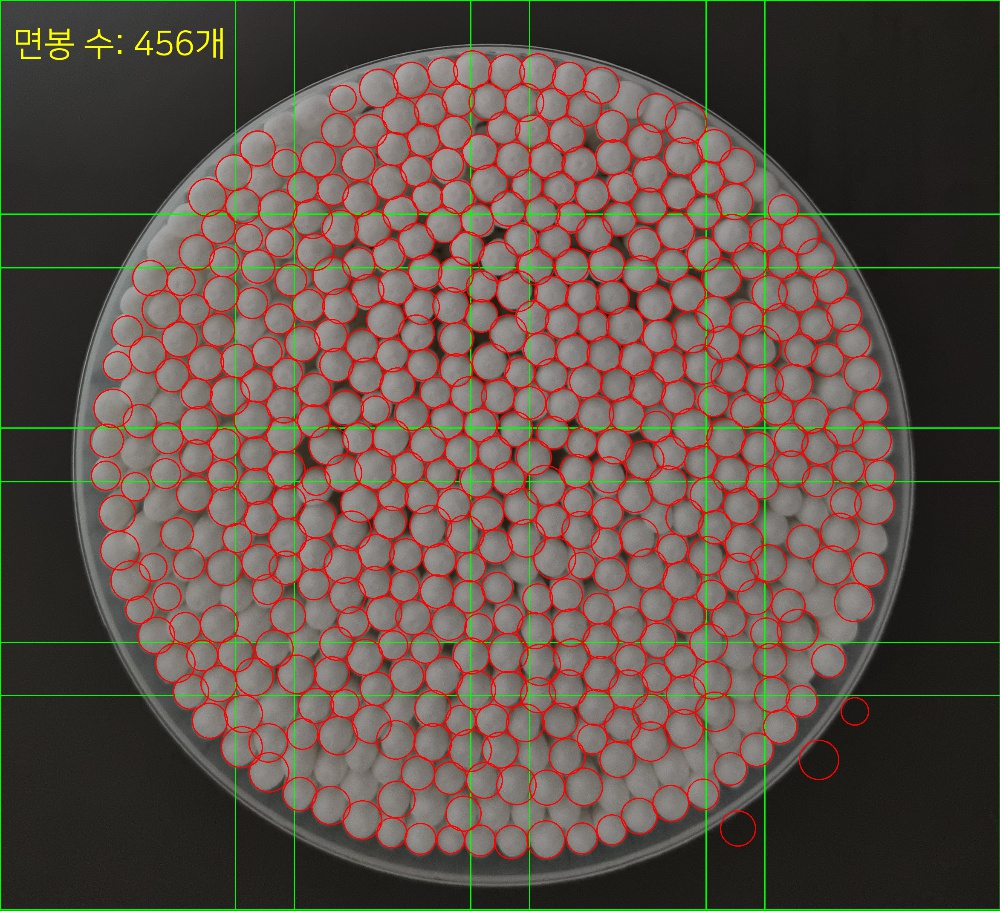
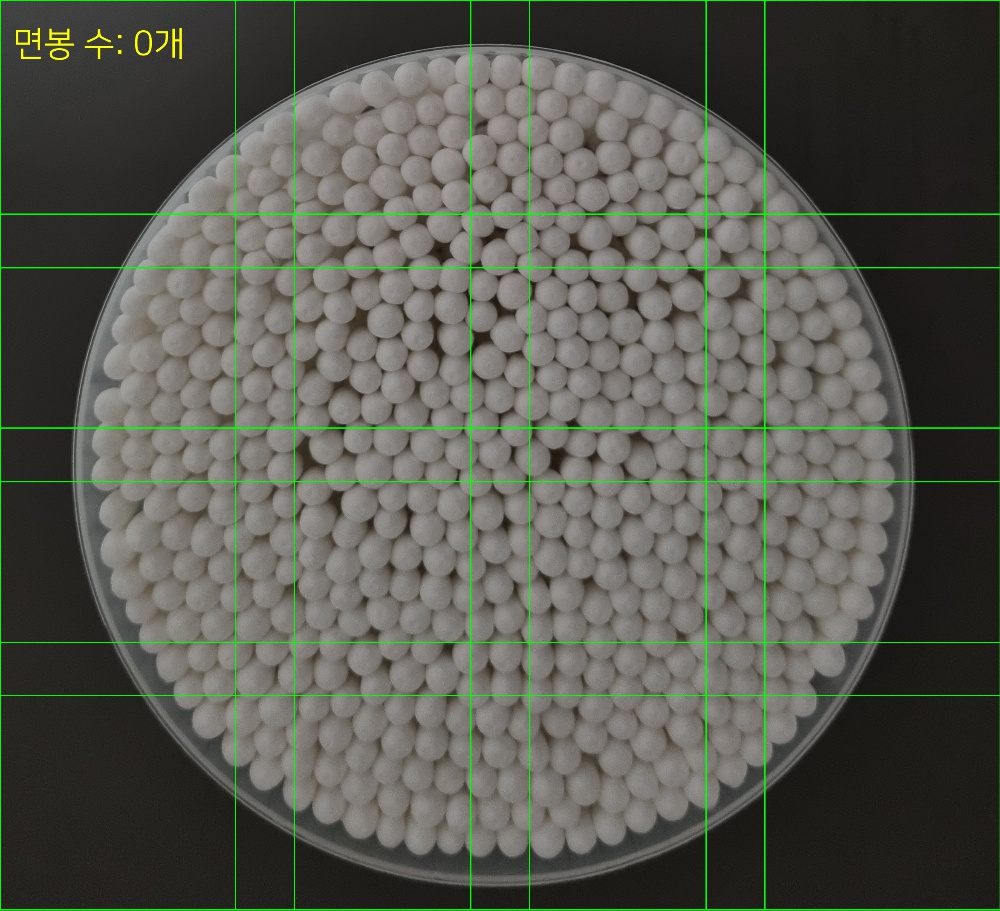
수정

Changed region(s): [[0.093, 0.0615, 0.899, 0.9528], [0.124, 0.0307, 0.248, 0.0615], [0.837, 0.7684, 0.868, 0.7991]]

diff --git a/팀플/ASC_1015.py b/팀플/ASC_1015.py
@@ -13,7 +13,7 @@ def load_image(image_path):
 def detect_largest_circle(image, min_radius=800, max_radius=1050):
     gray_image = cv2.cvtColor(image, cv2.COLOR_BGR2GRAY)
     blurred_image = cv2.GaussianBlur(gray_image, (5, 5), 0)
-    circles = cv2.HoughCircles(blurred_image, cv2.HOUGH_GRADIENT, dp=1.2, minDist=50,
+    circles = cv2.HoughCircles(blurred_image, cv2.HOUGH_GRADIENT, dp=1.3, minDist=50,
                                 param1=210, param2=110, 
                                 minRadius=min_radius, maxRadius=max_radius)
     
@@ -30,6 +30,29 @@ def mask_outside_circle(image, circle):
     cv2.circle(masked_image, (cx, cy), r, (255, 255, 255), -1)  # 원 안 부분을 흰색으로
     masked_image = cv2.bitwise_and(image, masked_image)  # 원 안 부분만 남김
     return masked_image
+
+def mask_outside_contour(image):
+    gray = cv2.cvtColor(image, cv2.COLOR_BGR2GRAY)
+    blurred = cv2.GaussianBlur(gray, (5, 5), 0)
+    _, thresh = cv2.threshold(blurred, 100, 255, cv2.THRESH_BINARY)
+    
+    kernel = np.ones((5, 5), np.uint8)
+    dilated = cv2.dilate(thresh, kernel, iterations=1)
+    
+    contours, _ = cv2.findContours(dilated, cv2.RETR_EXTERNAL, cv2.CHAIN_APPROX_SIMPLE)
+    if contours:
+        largest_contour = max(contours, key=cv2.contourArea)
+        mask = np.zeros_like(image)
+        cv2.drawContours(mask, [largest_contour], -1, (255, 255, 255), thickness=cv2.FILLED)
+        result = cv2.bitwise_and(image, mask)
+
+        if len(largest_contour) >= 5:
+            ellipse = cv2.fitEllipse(largest_contour)
+            cv2.ellipse(result, ellipse, (0, 255, 0), 2)
+        else:
+            print("타원을 그릴 수 없습니다. 충분한 점이 없습니다.")
+        return result
+    return image
 
 # ROI 생성 함수
 def create_roi(image, roi_size, overlap=0.2):
@@ -203,38 +226,58 @@ def process_image(image_path, min_radius, max_radius, param1, param2, distance_t
     preprocessed_images = []
     
     for roi, (x, y) in roi_list:
-        # 전처리 함수 중 가장 많은 원을 검출한 함수의 결과를 선택
         preprocessing_functions = [preprocess_roi_1, preprocess_roi_2]
         best_circles = []
         best_preprocessed = None
-        max_circles = 0
+        max_valid_circles = 0
         
         for preprocess_func in preprocessing_functions:
             preprocessed = preprocess_func(roi)
             circles = detect_cotton_swabs(roi, preprocessed, min_radius, max_radius, param1, param2)
-        
-            if len(circles) > max_circles:
-                max_circles = len(circles)
-                best_circles = circles
+            
+            # 원의 좌표를 전체 이미지 기준으로 변환
+            circles = [(cx + x, cy + y, r) for (cx, cy, r) in circles]
+            
+            # 중복 원 제거
+            unique_circles = remove_duplicate_circles(circles, distance_threshold)
+            
+            # ROI별로 원의 개수가 100개를 넘지 않도록 제한
+            if len(unique_circles) <= 100 and len(unique_circles) > max_valid_circles:
+                max_valid_circles = len(unique_circles)
+                best_circles = unique_circles
                 best_preprocessed = preprocessed
         
-        preprocessed_images.append(best_preprocessed)
+        # 유효한 전처리 결과가 없는 경우, 빈 이미지를 추가
+        if best_preprocessed is None:
+            best_preprocessed = np.zeros_like(roi[:,:,0])
         
-        # 원의 좌표를 전체 이미지 기준으로 변환
-        circles = [(cx + x, cy + y, r) for (cx, cy, r) in best_circles]
-        all_circles.extend(circles)
+        preprocessed_images.append(best_preprocessed)
+        all_circles.extend(best_circles)
         
         # ROI 영역 체크(초록색 사각형)
         cv2.rectangle(image, (x, y), (x + roi_size[1], y + roi_size[0]), (0, 255, 0), 2)
     
-    # 중복 원 제거
+    # 전체 이미지에 대해 다시 한 번 중복 원 제거
     unique_circles = remove_duplicate_circles(all_circles, distance_threshold)
     
-    # 결과 이미지에 원 그리기
+    # 면봉통 내부에 있는 원만 필터링
+    cx, cy, cr = largest_circle
+    filtered_circles = []
     for (x, y, r) in unique_circles:
-        cv2.circle(image, (x, y), r, (0, 0, 255), 2)
+        # 원의 중심이 면봉통 내부에 있는지 확인 (여유 공간 추가)
+        if (x - cx)**2 + (y - cy)**2 < (cr - r)**2:
+            filtered_circles.append((x, y, r))
     
-    total_cotton_swabs = len(unique_circles)
+    # 면봉통 원 그리기 (파란색)
+    cv2.circle(image, (cx, cy), cr, (255, 0, 0), 2)
+    
+    # 결과 이미지에 원 그리기
+    for (x, y, r) in filtered_circles:
+        cv2.circle(image, (x, y), r, (0, 0, 255), 2)
+        # 원의 중심점 표시
+        cv2.circle(image, (x, y), 2, (0, 255, 0), -1)
+    
+    total_cotton_swabs = len(filtered_circles)
     print(f"검출된 총 면봉 개수: {total_cotton_swabs}")
 
     # 결과 이미지에 면봉 개수 출력
@@ -249,7 +292,7 @@ def process_image(image_path, min_radius, max_radius, param1, param2, distance_t
     else:
         resized_image = image
 
-    cv2.imwrite("result_1015.jpg", resized_image)
+    cv2.imwrite("result_improved.jpg", resized_image)
     
     # 결과 이미지와 전처리된 이미지 표시
     plt.figure(figsize=(20, 10))
